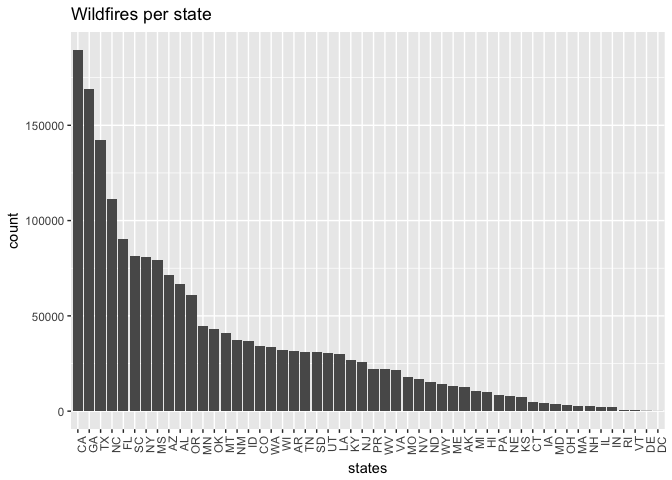
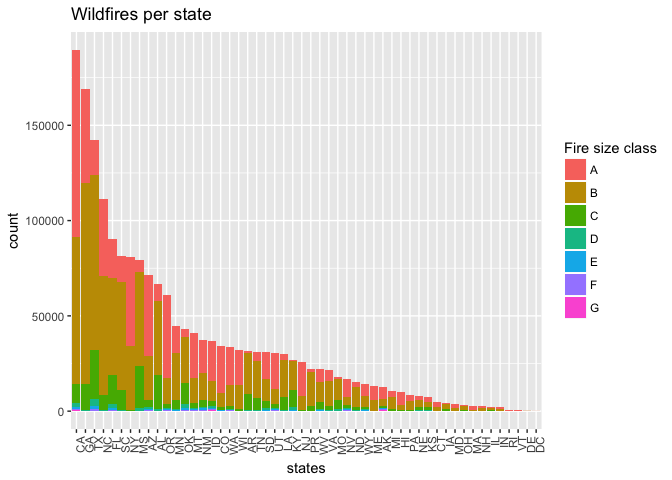
Commit via RMarkdown

Changed region(s): [[0.0938, 0.0625, 1.0, 1.0]]

diff --git a/README.md b/README.md
@@ -21,29 +21,29 @@ library(data.table)
 # fires <- tbl(conn, "Fires") %>% collect()
 # write_csv(fires, '~/Documents/r/math216/fires.csv')
 # ff <- read.csv('~/Documents/r/math216/fires.csv')
-# print(object.size(ff), units = 'Gb') # 0.9
+# print(object.size(ff), units = 'Gb') # 0.9. Way too big! 
+# Note how much smaller fire_shortversion.csv is.
 # colnames(ff) <- tolower(colnames(ff))
 # ff <- ff[,c(2:8,10,12)]
 # write_csv(ff, '~/Documents/r/math216/fires_shortversion.csv')
+
+ff <- fread('~/Documents/r/math216/fires_shortversion.csv')
+```
+
+    ## 
+    Read 58.0% of 1880465 rows
+    Read 1880465 rows and 9 (of 9) columns from 0.105 GB file in 00:00:03
+
+``` r
+ff$year <- ff$fire_year
 ```
 
 We'll start by visualizing the frequency of fires by state.
 
 ``` r
-ff <- fread('~/Documents/r/math216/fires_shortversion.csv', stringsAsFactors = F)
-```
-
-    ## 
-    Read 46.8% of 1880465 rows
-    Read 98.4% of 1880465 rows
-    Read 1880465 rows and 9 (of 9) columns from 0.105 GB file in 00:00:04
-
-``` r
-ff$year <- ff$fire_year
-
 ff %>%
   ggplot() + 
-  geom_bar(aes(reorder(state, state, function(x) - length(x)) )) +
+  geom_bar(aes(reorder(state, state, function(x) - length(x)), fill = fire_size_class )) +
   theme(axis.text.x=element_text(angle=90, hjust=1)) +
   scale_fill_discrete(name = "Fire size class") +
   ggtitle("Wildfires per state") +
@@ -59,8 +59,8 @@ ggplot() +
   geom_map(data=world, map=world, aes(x=long, y=lat, map_id=region), color="white", size=0.05, alpha=1/4) + 
   geom_point(data = sample_n(ff, 10000), aes(longitude, latitude, color = fire_size_class), alpha = .1) +
   ylim(10,75) + xlim(-175,-40) +
-  coord_quickmap() + 
-  guides(color = F)
+  coord_quickmap() +
+  guides(color = "none")
 ```
 
 ![](README_files/figure-markdown_github-ascii_identifiers/unnamed-chunk-2-2.png)
@@ -96,8 +96,7 @@ ggplot() +
   geom_map(data=world, map=world, aes(x=long, y=lat, map_id=region), color="white", size=0.05, alpha=1/4) +
   geom_point(data = ff[ff$fire_size_class %in% c("F", "G"),], aes(longitude, latitude, color = fire_size_class), alpha = .1) +
   ylim(10,75) + xlim(-175,-40) +
-  coord_quickmap() +
-  guides(color = F)
+  coord_quickmap() 
 ```
 
 ![](README_files/figure-markdown_github-ascii_identifiers/unnamed-chunk-4-2.png)
